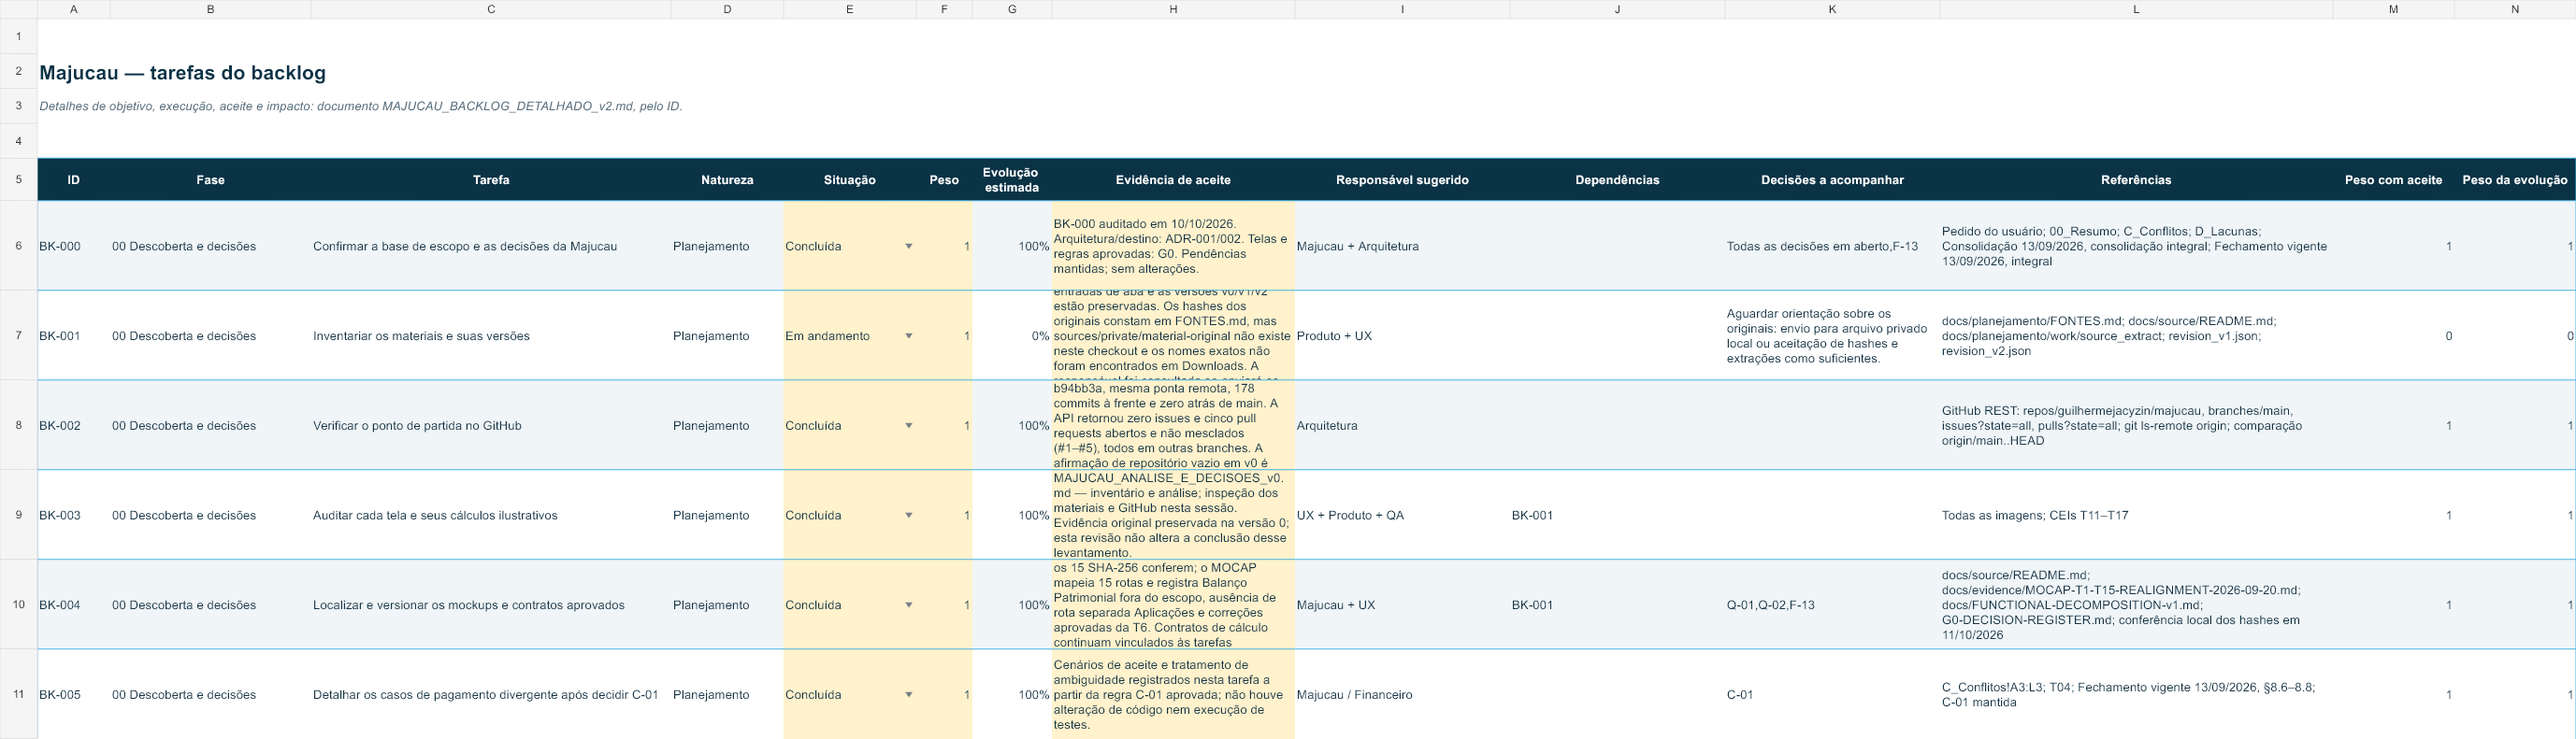
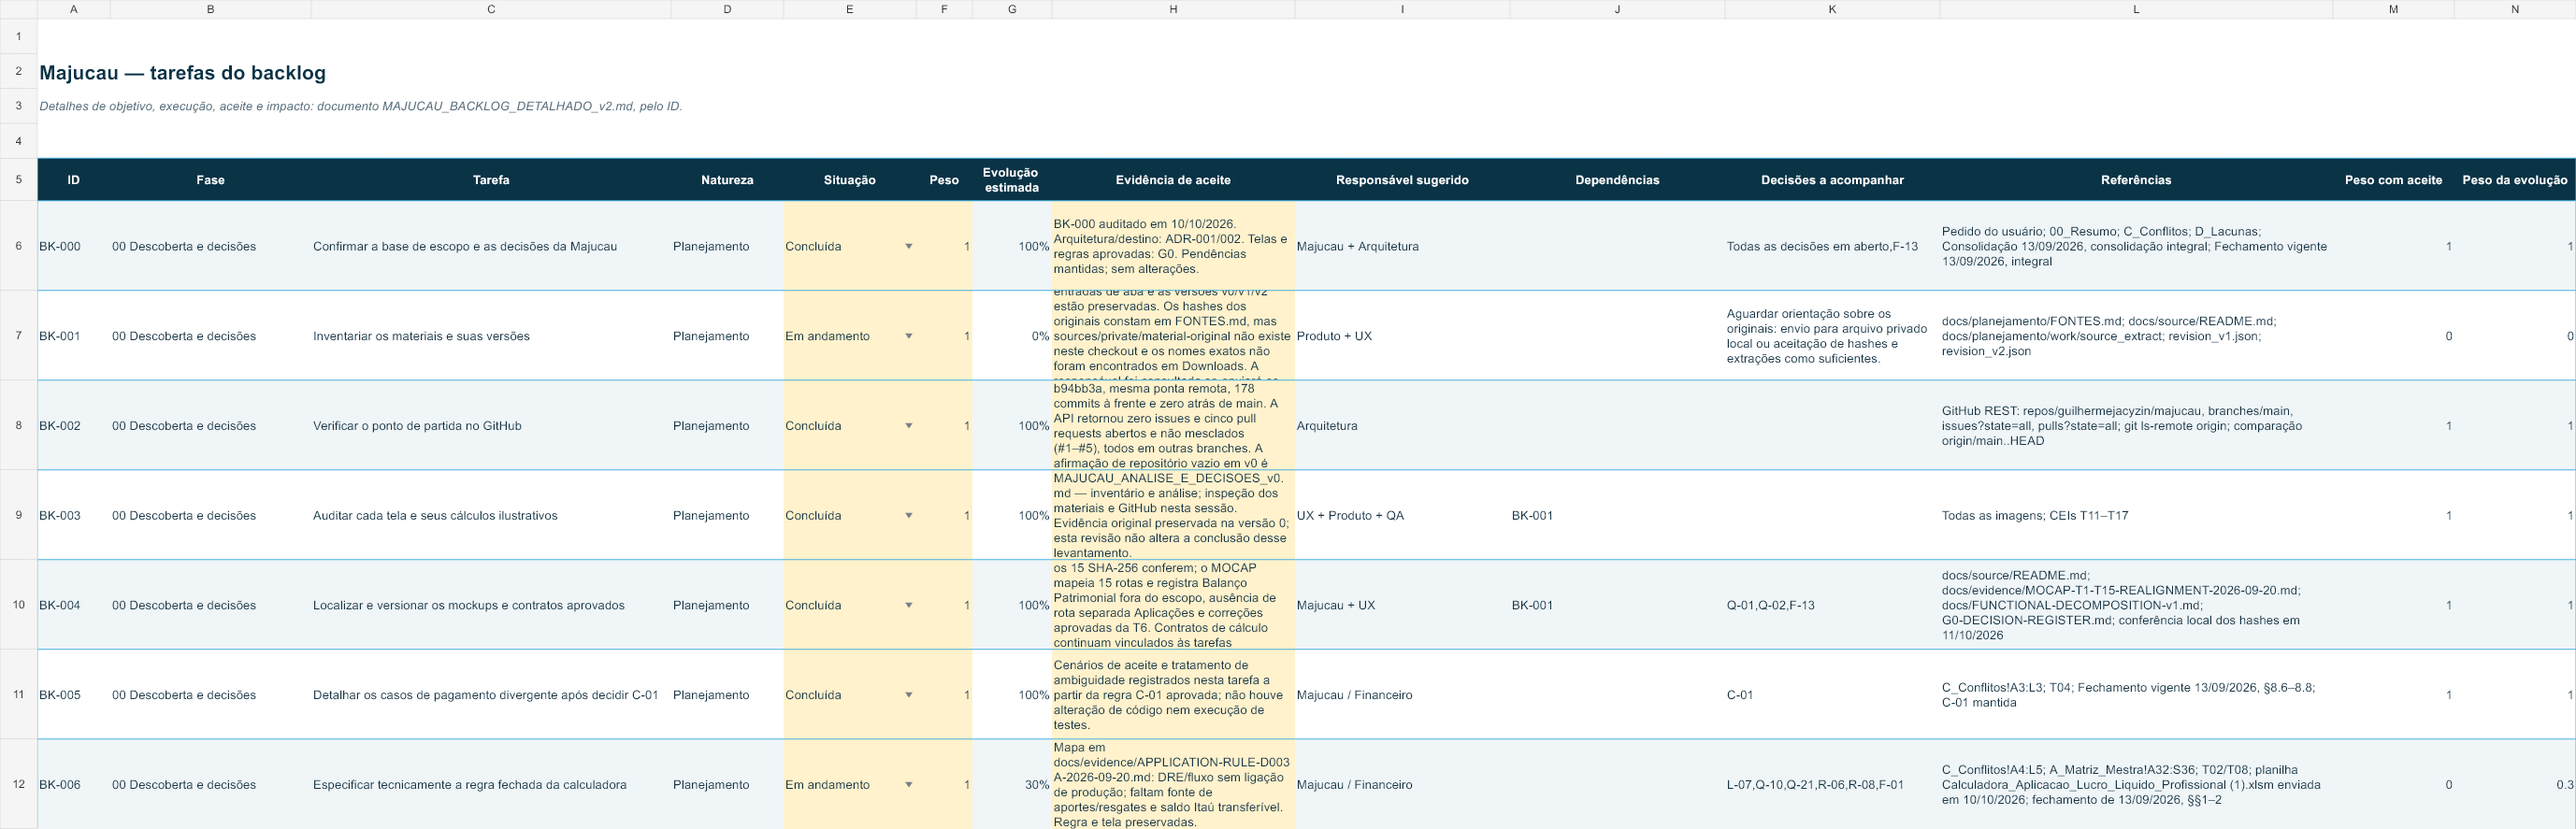
docs(finance): alinhar mapeamento da calculadora D-003-A
O que é: avanço da especificação técnica da calculadora de aplicação.

O que foi feito: corrigido o Data Dictionary para refletir D-003-A/D-003-C aprovadas; documentado o mapa entre DRE, fluxo diário, reserva e saldo Itaú e as fontes ainda ausentes; atualizado backlog e planilha. Nenhuma tela, regra financeira ou schema foi alterado. Conferências do pacote, fórmulas e backlog passaram.

Próximo passo: identificar o relatório oficial que registra aportes e resgates do principal e, com essa fonte definida, ligar as leituras de produção sem preencher dados ausentes com zero.

Quanto falta da tarefa BK-006: 70% estimados.

Quanto falta da meta do projeto: 92,8% estimados.

diff --git a/DATA-DICTIONARY-v1.md b/DATA-DICTIONARY-v1.md
@@ -349,10 +349,10 @@ Os nomes literais do handoff serão expostos como views tipadas sobre o modelo c
 |---|---|---|
 | `rule_version_id` | uuid | FK para a regra de aplicação aprovada |
 | `effective_from` | date | Início de vigência, sem sobrescrever histórico |
-| `minimum_reserve` | numeric(19,4) | Reserva mínima autorizada |
-| `eligible_profit_cutoff_months` | integer | Valor proposto: 2, representando M-2 |
-| `projection_horizon_days` | integer | Valor protegido: 60 |
-| `include_expected_receipts` | boolean | Somente quando houver fonte oficial/data válida |
+| `minimum_reserve` | numeric(19,4) | Valor vigente aprovado: R$ 50.000; mudanças exigem nova aprovação/versão |
+| `eligible_profit_cutoff_months` | integer | Valor aprovado: 2, representando M−2 |
+| `projection_horizon_days` | integer | Horizonte aprovado: 60 dias; D0–D+60 inclusive (61 fechamentos) |
+| `include_expected_receipts` | boolean | Campo existente no schema, sem uso ativo comprovado. Não autoriza somar recebimentos de uma fonte separada; D-003-A recebe o fluxo consolidado. Não alterar o schema nesta tarefa. |
 | `approved_by` | uuid | Responsável pela aprovação |
 | `approved_at` | timestamptz | Momento da aprovação |
 
@@ -362,17 +362,31 @@ Parâmetros aprovados são imutáveis; mudança cria nova vigência e novos snap
 
 | Campo | Tipo | Regra |
 |---|---|---|
-| `eligible_accumulated_profit` | numeric(19,4) | Lucro líquido acumulado elegível até M-2 |
-| `already_invested` | numeric(19,4) | Valor já investido |
-| `available_profit` | numeric(19,4) | max(0, eligible - invested) |
-| `worst_week_cash` | numeric(19,4) | Menor saldo diário de fechamento encontrado dentro das semanas ISO dos próximos 60 dias |
-| `minimum_reserve` | numeric(19,4) | Reserva mínima aprovada |
-| `financial_limit` | numeric(19,4) | worst_week_cash - reserve |
-| `maximum_investment` | numeric(19,4) | max(0, min(financial_limit, available_profit)) |
+| `eligible_accumulated_profit` | numeric(19,4) | Lucro líquido da DRE própria do Majucau, acumulado de janeiro até M−2 |
+| `already_invested` | numeric(19,4) | Aportes de principal menos resgates de principal; rendimentos ficam separados |
+| `available_profit` | numeric(19,4) | max(0, eligible_accumulated_profit − already_invested) |
+| `worst_week_cash` | numeric(19,4) | Nome físico mantido por compatibilidade; guarda o menor `closing_balance` diário entre D0 e D+60, sem agrupar semanas |
+| `minimum_reserve` | numeric(19,4) | Reserva mínima aprovada de R$ 50.000 |
+| `financial_limit` | numeric(19,4) | max(0, worst_week_cash − minimum_reserve) |
+| `maximum_investment` | numeric(19,4) | max(0, min(available_profit, financial_limit)) |
 | `rule_version_id` | uuid | Versão da fórmula |
-| `status` | text | PROVISIONAL até existir modelo de referência aprovado |
+| `status` | text | PROVISIONAL enquanto os dados de entrada não estiverem comprovados; D-003-A está aprovada |
 
-Regra v1 proposta: considerar somente recebimentos `CONFIRMED` ou `PROJECTED` com fonte oficial e data válida; calcular o saldo diário D0..D+60; `worst_week_cash` é o menor `closing_balance` diário do horizonte; `financial_limit = max(0, worst_week_cash - minimum_reserve)`; `maximum_investment = max(0, min(available_profit, financial_limit))`. A regra permanece `PROVISIONAL` e o card fica bloqueado até a aprovação dessa definição ou a entrega da planilha de referência, seguida de casos dourados com tolerância de R$ 0,01.
+Regra vigente D-003-A, aprovada no registro G0: `available_profit = max(0, eligible_accumulated_profit − already_invested)`; `financial_limit = max(0, menor fechamento diário D0–D+60 − minimum_reserve)`; `maximum_investment = max(0, min(available_profit, financial_limit))`. Usar BRL e decimal exato. Recebimentos só entram como parte do fluxo consolidado, com fonte oficial e data válida; não somar recebimentos da Nuvemshop separadamente. Se qualquer dado necessário estiver ausente, o resultado dependente permanece indisponível, sem substituir ausência por zero.
+
+A sugestão D-003-C é um indicador separado, apenas informativo: `R$ 50.000 + max(0, caixa projetado em D0 − menor fechamento diário D0–D+60)`. Ela não altera a reserva mínima nem o valor máximo para aplicar.
+
+### 12.2 Mapeamento técnico existente e lacunas
+
+| Entrada | Estrutura prevista no banco | Situação observada no código |
+|---|---|---|
+| Lucro elegível | `statement_snapshots` com `statement_type='DRE'`, período e execução; valores em `statement_lines` | Não foi encontrada consulta de produção que some a linha aprovada “Lucro/Prejuízo Líquido” de janeiro até M−2. O código não deve copiar a DRE pronta do Bling. |
+| Principal já investido | Campo calculado em `investment_calculations` | Não há tabela/adapter de aportes e resgates de principal no schema atual; esse campo armazena somente o resultado. A origem do histórico ainda precisa ser identificada. |
+| Fluxo diário | `daily_balances` com data, abertura, entradas, saídas, ajustes, fechamento, tipo, cenário e execução | Há tabelas de contribuição tipadas para recebíveis, recebimentos, pagáveis, pagamentos e ajustes. Não foi encontrada consulta ou gravação de produção que alimente os 61 fechamentos usados pela calculadora. |
+| Reserva mínima | `investment_parameters.minimum_reserve` | A regra aprovada é R$ 50.000; a seleção de parâmetro vigente ainda não está ligada à calculadora. |
+| Saldo transferível do Itaú | `financial_accounts` e `financial_balance_snapshots.reconciled_amount` | O modelo permite guardar saldo conciliado de uma conta, mas a conta, a regra de transferibilidade e o sincronizador ainda não estão mapeados/implementados. Não usar o saldo conciliado como transferível por suposição. |
+
+As funções de domínio existem, mas o inventário estático não encontrou chamadas de produção para elas. Portanto, este mapeamento não comprova dados disponíveis nem libera a tela para apresentar valores calculados.
 
 ## 13. Status de dados
 

diff --git a/REQUIREMENTS-TRACEABILITY.md b/REQUIREMENTS-TRACEABILITY.md
@@ -59,7 +59,7 @@
 | FIN-03 | Aging vencido, hoje, 7, 15, 30, 45 e 60 dias sem dupla contagem | pp. 2–3, §3 | Data §7; Plano fase 5; Registro D-005 | G3 | Cálculo de domínio cobre limites inclusivos, timezone de São Paulo, fins de semana/feriado, saldo aberto/parcial, cancelados/estornados e totais em teste automatizado; ainda falta integração e reconciliação de recebíveis e obrigações | PARTIAL |
 | FIN-04 | Saldo inicial D = final D-1; saldo final = inicial + entradas - saídas ± ajustes; D0 provisório; D+1–D+60 projetado | pp. 6–7, §§7–9, 25–26 | Data §9; ERD §5; Plano fase 7; `docs/evidence/TREASURY-PROJECTION-MINIMUM-2026-09-20.md` | G3 | Núcleo D0–D60, viradas, continuidade e validação da equação; persistência, fontes e cenários ainda pendentes | PARTIAL |
 | FIN-05 | Menor saldo diário D0–D60 com data, cenário e composição | p. 7, §9 | ERD §5; Plano fase 7; `docs/evidence/TREASURY-PROJECTION-MINIMUM-2026-09-20.md` | G3 | Caso dourado valida data/saldo/composição e rejeita série inválida; cenário, persistência e drill-down ainda pendentes | PARTIAL |
-| FIN-06 | Valor Máximo para Aplicação segue a regra financeira aprovada D-003-A | pp. 19–20, §§33–34 | Data §12; Registro D-003-A/D-003-C; `docs/evidence/APPLICATION-RULE-D003A-2026-09-20.md`; `docs/evidence/INVESTMENT-RESERVE-SUGGESTION-2026-10-10.md` | G5/G7 | D-003-A e casos dourados com decimal exato estão registrados. A decisão posterior confirmou: DRE própria do Majucau até M−2; principal líquido já investido; menor saldo diário do fluxo consolidado em D0–D+60; reserva mínima de R$ 50.000; nenhum recebimento da Nuvemshop somado separadamente. D-003-C aprovou a sugestão de reserva apenas informativa, sem alterar o máximo; `SuggestedReserve` implementa a fórmula isolada com testes locais e CI `38125567483` aprovada em Windows e PostgreSQL/Linux. A estrutura visual da calculadora será preservada. Permanecem pendentes o mapeamento das fontes, a chamada de produção e a ligação aos dados reais; entradas não comprovadas ficam indisponíveis | PARTIAL |
+| FIN-06 | Valor Máximo para Aplicação segue a regra financeira aprovada D-003-A | pp. 19–20, §§33–34 | Data §12; Registro D-003-A/D-003-C; `docs/evidence/APPLICATION-RULE-D003A-2026-09-20.md`; `docs/evidence/INVESTMENT-RESERVE-SUGGESTION-2026-10-10.md` | G5/G7 | D-003-A e casos dourados com decimal exato estão registrados. O Data Dictionary foi corrigido para refletir a regra aprovada e documenta o mapa técnico: DRE própria até M−2, principal líquido de aportes/resgates, menor fechamento diário D0–D+60 e reserva R$ 50.000. D-003-C permanece uma sugestão informativa separada. A estrutura enviada da calculadora é preservada e recebimentos da Nuvemshop não são somados separadamente. As tabelas existem em parte, mas não há leitor de produção nem origem confirmada para o histórico de aplicações e o saldo transferível; entradas sem comprovação ficam indisponíveis | PARTIAL |
 
 ## Experiência executiva e acessibilidade
 

diff --git a/docs/evidence/APPLICATION-RULE-D003A-2026-09-20.md b/docs/evidence/APPLICATION-RULE-D003A-2026-09-20.md
@@ -243,3 +243,29 @@ worker, instalador e versão portátil sem assinatura, smoke de instalação e
 desinstalação, consolidação e upload dos outputs. Isso confirma o código e o
 pipeline desta alteração, mas não prova a conexão da calculadora com dados
 financeiros reais.
+
+## Mapeamento estático das fontes — 2026-10-11
+
+Esta revisão comparou D-003-A/D-003-C com `DATA-DICTIONARY-v1.md`, a migration
+`database/migrations/000001_init.up.sql` e os chamadores no código. Foi uma
+leitura estática: não acessou dados financeiros reais, não alterou schema e não
+executou testes.
+
+| Entrada da calculadora | Estrutura existente | O que falta comprovar/ligar |
+|---|---|---|
+| Lucro elegível de janeiro até M−2 | `statement_snapshots` (`statement_type='DRE'`) e `statement_lines`, com período, execução e versão da regra | Não há consulta de produção. Ainda é preciso usar a linha aprovada “Lucro/Prejuízo Líquido” do Majucau e validar a cobertura dos meses; não copiar a DRE pronta do Bling. |
+| Já investido | `investment_calculations.already_invested` guarda o valor calculado | O schema não tem tabela de movimentos de aplicação para somar aportes e subtrair resgates de principal. Rendimentos devem ficar separados. A planilha tem campo manual, mas ele não resolve o histórico. |
+| Menor saldo no fluxo D0–D+60 | `daily_balances` guarda abertura, entradas, saídas, ajustes, fechamento, tipo, cenário e execução. Existem tabelas de contribuição tipadas para recebíveis, recebimentos, pagáveis, pagamentos e ajustes. | `DailyProjectionFrom` é apenas um helper de domínio. Não foi encontrada rotina que grave/procure a série usada pela calculadora; faltam seleção da execução válida, leitor de produção e conferência da fonte/data. |
+| Reserva mínima | `investment_parameters.minimum_reserve` | O valor vigente aprovado é R$ 50.000. A calculadora ainda não seleciona a versão aprovada em vigor. |
+| Saldo transferível do Itaú | `financial_accounts` e `financial_balance_snapshots.reconciled_amount` podem guardar uma conta e seu saldo conciliado | Não há sincronizador de contas/saldos ligado à calculadora nem regra técnica comprovada que converta saldo conciliado em saldo transferível. Não presumir essa equivalência. |
+
+`investment_calculations` é uma estrutura de resultado, não uma fonte dos
+movimentos. O schema também conserva `include_expected_receipts` e o nome
+histórico `worst_week_cash`; nenhum deles autoriza somar recebimentos da
+Nuvemshop separadamente ou agrupar o mínimo por semana. O Data Dictionary foi
+alinhado à regra aprovada sem alteração da migration.
+
+**Conclusão:** a especificação ganhou um mapa verificável das estruturas e
+lacunas; isso não conecta a calculadora nem habilita valores. A próxima ligação
+depende, entre outros pontos, de identificar onde o histórico de aportes e
+resgates de principal é oficialmente registrado.

diff --git a/docs/planejamento/outputs/MAJUCAU_BACKLOG_DETALHADO_v2.md b/docs/planejamento/outputs/MAJUCAU_BACKLOG_DETALHADO_v2.md
@@ -374,7 +374,7 @@ Além do aceite específico: regras vigentes e capacidades aplicadas no backend,
 
 ### BK-006 — Especificar tecnicamente a regra fechada da calculadora
 
-**Situação:** Em andamento. **Evolução:** 25% (estimativa de planejamento; a estrutura da planilha enviada foi preservada e comparada, em leitura somente para consulta, com as regras aprovadas. A planilha atual pede valores da DRE do Bling, soma separadamente recebimentos previstos da Nuvemshop e deixa manual o lucro acumulado e o valor já investido; isso não substitui D-003-A, a DRE própria do Majucau ou o fluxo diário consolidado. D-003-A continua ativa. A sugestão D-003-C, somente para consulta, tem função isolada coberta por testes e CI, sem alterar o máximo. A entrada em fluxo para os 61 dias ainda não tem chamada de produção nem consulta aos saldos diários. Mapeamento das fontes reais, ligação da calculadora e exemplos reproduzíveis continuam pendentes). **Tipo:** Planejamento. **Responsável sugerido:** Majucau / Financeiro.
+**Situação:** Em andamento. **Evolução:** 30% (estimativa de planejamento; a estrutura da planilha enviada foi preservada. D-003-A e a sugestão separada D-003-C continuam vigentes. O Data Dictionary foi alinhado à regra aprovada: menor fechamento diário D0–D+60, fluxo consolidado e reserva mínima de R$ 50.000. O mapa estático localizou as estruturas previstas para DRE, projeção e saldo bancário, mas não encontrou chamadas de produção. O schema não contém histórico de aportes/resgates; a origem do principal líquido investido e a classificação do saldo transferível do Itaú continuam pendentes. Nenhum dado ausente será convertido em zero. A ligação com fontes reais e exemplos reproduzíveis ainda não existem). **Tipo:** Planejamento. **Responsável sugerido:** Majucau / Financeiro.
 
 **Objetivo:** Permitir um cálculo reproduzível e compreensível.
 

diff --git a/docs/planejamento/VISAO_GERAL.md b/docs/planejamento/VISAO_GERAL.md
@@ -28,6 +28,6 @@ Na planilha, uma tarefa pontua 100% somente quando está concluída e possui evi
 
 ### Estado atual do backlog — 11/10/2026
 
-O backlog detalhado registra **6 tarefas concluídas, 10 em andamento e 111 não iniciadas**. As tarefas em andamento são BK-001 (0%), BK-006 (25%), BK-007 (20%), BK-012 (10%), BK-013 (15%), BK-014 (15%), BK-025 (70%), BK-031 (80%), BK-041 (55%) e BK-067 (20%). Pela média simples das evoluções registradas, o acompanhamento estima **7,2% concluído e 92,8% restante**. Essa média é uma estimativa de planejamento; não comprova prontidão para homologação ou produção.
+O backlog detalhado registra **6 tarefas concluídas, 10 em andamento e 111 não iniciadas**. As tarefas em andamento são BK-001 (0%), BK-006 (30%), BK-007 (20%), BK-012 (10%), BK-013 (15%), BK-014 (15%), BK-025 (70%), BK-031 (80%), BK-041 (55%) e BK-067 (20%). Pela média simples das evoluções registradas, o acompanhamento estima **7,2% concluído e 92,8% restante**. Essa média é uma estimativa de planejamento; não comprova prontidão para homologação ou produção.
 
 Há código e evidências de CI para partes da fundação, mas ainda faltam validação com dados reais, homologação e revisão das tarefas não iniciadas. Não há prazo global confiável. Consulte o backlog v2 e `REQUIREMENTS-TRACEABILITY.md` antes de usar os números como critério de liberação.

diff --git a/IMPLEMENTATION-PLAN.md b/IMPLEMENTATION-PLAN.md
@@ -41,7 +41,7 @@ G0 não será aprovado apenas por existir documentação. Cada P0 abaixo precisa
 | Fonte B2C/Nuvem Pago | Tarifário aprovado: cartão 1x/2x/3x em D+30 (2,59% + R$ 0,35; 4,49% + R$ 0,35; 5,44% + R$ 0,35), boleto D+2 (R$ 2,39) e PIX na hora (0,99%); ainda falta API/arquivo oficial com bruto, taxa efetiva, líquido, status e data de liquidação, ou retirada explícita do B2C confirmado do release |
 | OAuth Nuvemshop desktop | redirect HTTPS do relay registrado e aceito, state/replay/TTL testados e posição do provedor sobre PKCE documentada |
 | Classificação B2B | aprovação da regra conservadora e de seus casos ambíguos/overrides |
-| Aplicação financeira | planilha-oráculo ou aprovação formal da fórmula v1 proposta, com casos dourados |
+| Aplicação financeira | D-003-A foi formalmente aprovada e os casos dourados do cálculo isolado têm evidência de CI. A estrutura enviada da calculadora foi preservada; a comparação não autoriza somar Nuvemshop separadamente. O mapeamento das fontes reais e a chamada de produção continuam pendentes para os gates de implementação e homologação. |
 
 ## 3. Fase 0 - Governança e decisões
 
